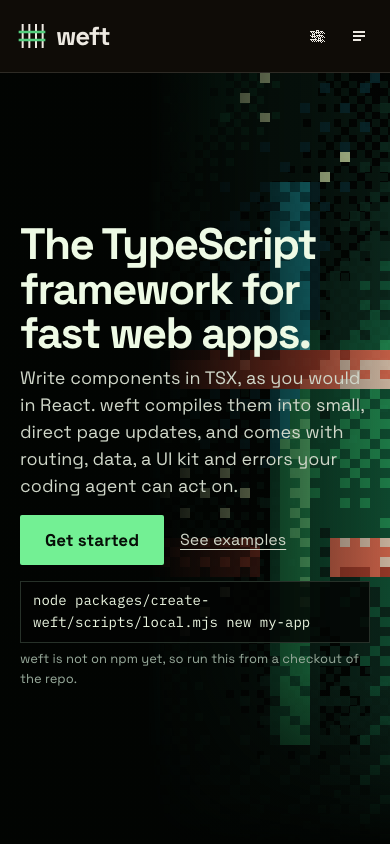
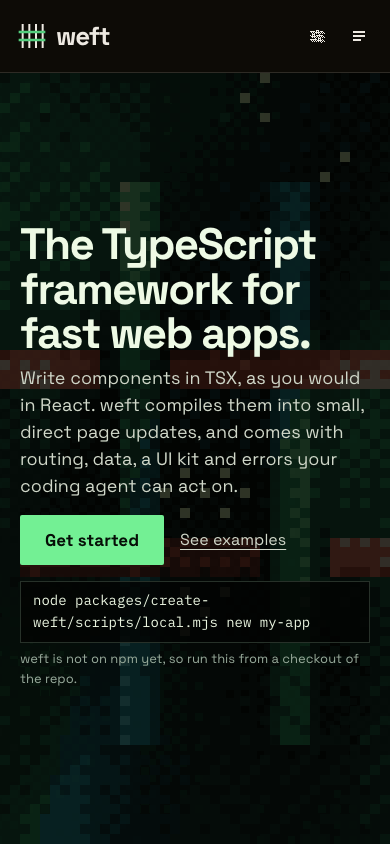
Fix the landing's width on phones and use one page colour

diff --git a/site/src/styles/site.css b/site/src/styles/site.css
@@ -1,6 +1,6 @@
 /* The site's own layout, on warp's tokens. Every value is a token or a layout measure: colour never appears raw here. */
   html { scroll-padding-block-start: 88px; }
-  body { margin: 0; background: var(--warp-color-page); color: var(--warp-color-text); font-family: var(--warp-text-body-font); font-size: var(--warp-text-body-size); line-height: var(--warp-text-body-leading); -webkit-font-smoothing: antialiased; }
+  body { margin: 0; background: oklch(0.1 0.012 150); color: var(--warp-color-text); font-family: var(--warp-text-body-font); font-size: var(--warp-text-body-size); line-height: var(--warp-text-body-leading); -webkit-font-smoothing: antialiased; }
   #app { display: grid; grid-template-rows: auto 1fr auto; min-block-size: 100dvh; }
   main { min-inline-size: 0; }
   h1, h2, h3 { margin: 0; font-family: var(--warp-text-title-font); font-weight: var(--warp-text-title-weight); letter-spacing: var(--warp-text-title-tracking); text-wrap: balance; }
@@ -51,7 +51,7 @@
   [data-part="install"] { display: grid; gap: 6px; font-size: 0.8125rem; color: oklch(0.72 0.03 150); }
   [data-part="install"] code { justify-self: start; max-inline-size: 100%; overflow-x: auto; padding: 8px 12px; border: 1px solid oklch(0.3 0.02 150); background: oklch(0.1 0.012 150 / 0.8); font-family: var(--warp-font-mono); font-size: 0.875rem; color: oklch(0.96 0.03 130); }
 
-  [data-site="story"] { display: grid; gap: clamp(3.5rem, 7vw, 6.5rem); background: oklch(0.1 0.012 150); padding: clamp(3rem, 6vw, 5rem) clamp(1.25rem, 5vw, 5rem) clamp(4rem, 8vw, 7rem); }
+  [data-site="story"] { display: grid; grid-template-columns: minmax(0, 1fr); gap: clamp(3.5rem, 7vw, 6.5rem); background: oklch(0.1 0.012 150); padding: clamp(3rem, 6vw, 5rem) clamp(1.25rem, 5vw, 5rem) clamp(4rem, 8vw, 7rem); }
   [data-site="story"] > section, [data-part="reading"] { box-sizing: border-box; inline-size: 100%; max-inline-size: 1120px; margin-inline: auto; }
   [data-site="story"] h2 { font-family: var(--warp-font-sans); font-weight: 700; font-size: clamp(2rem, 1.3rem + 2.4vw, 3.25rem); line-height: 1.08; letter-spacing: -0.03em; color: oklch(0.97 0.03 130); }
   [data-part="intro"] { max-inline-size: 65ch; margin-block: var(--warp-space-group); font-size: 1.125rem; line-height: 1.6; color: oklch(0.85 0.02 130); }
@@ -116,6 +116,7 @@
   [data-site="icon-sheet"] svg { inline-size: 48px; block-size: 48px; }
 
   @media (max-width: 719.98px) {
+    [data-site="hero"]::after { background: oklch(0.1 0.012 150 / 0.78); }
     [data-site="top-nav"] { display: none; }
     [data-site="menu"] { display: inline-flex; }
     [data-site="sheet-nav"] { display: grid; }

diff --git a/site/src/styles/example.css b/site/src/styles/example.css
@@ -1,4 +1,4 @@
-[data-site="example"] { display: grid; gap: var(--warp-space-related); margin-block: var(--warp-space-group) var(--warp-space-section); }
+[data-site="example"] { display: grid; gap: var(--warp-space-related); margin-block: var(--warp-space-group) clamp(3rem, 6vw, 5rem); }
 [data-site="example"] > p { max-inline-size: 65ch; font-size: 1.0625rem; line-height: 1.6; color: oklch(0.82 0.02 130); }
 [data-site="example"] h3 { font-family: var(--warp-font-sans); font-size: 1.5rem; letter-spacing: -0.02em; color: oklch(0.96 0.03 130); }
 [data-site="example"] [data-part="pair"] { display: grid; grid-template-columns: minmax(0, 2fr) minmax(0, 3fr); border: 1px solid oklch(0.3 0.02 150); background: oklch(0.14 0.015 150); }
